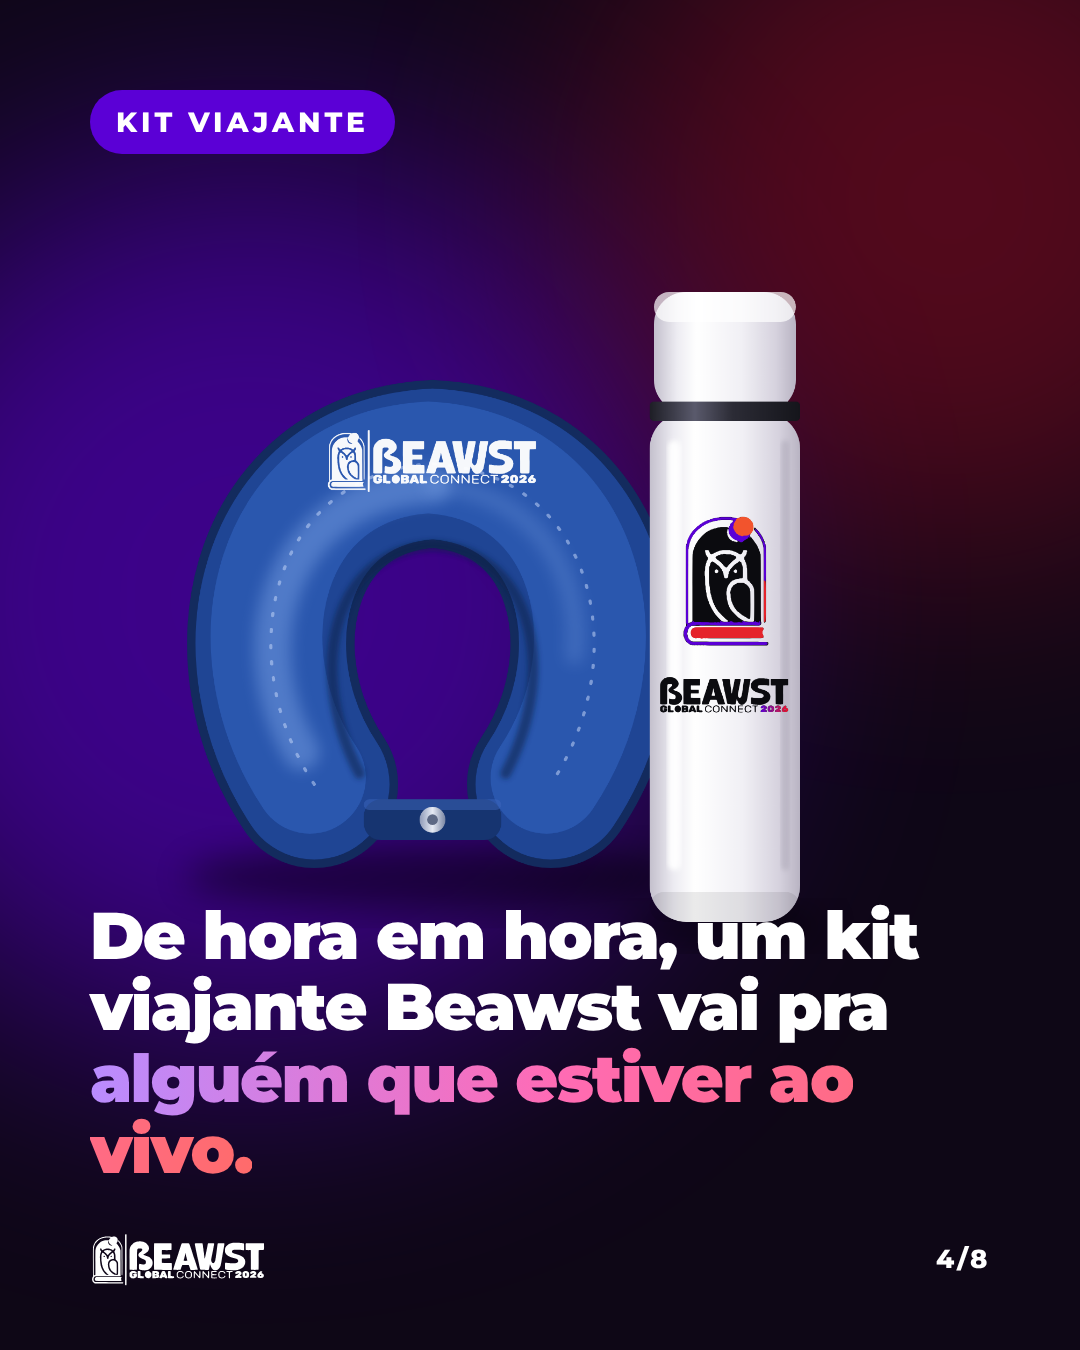
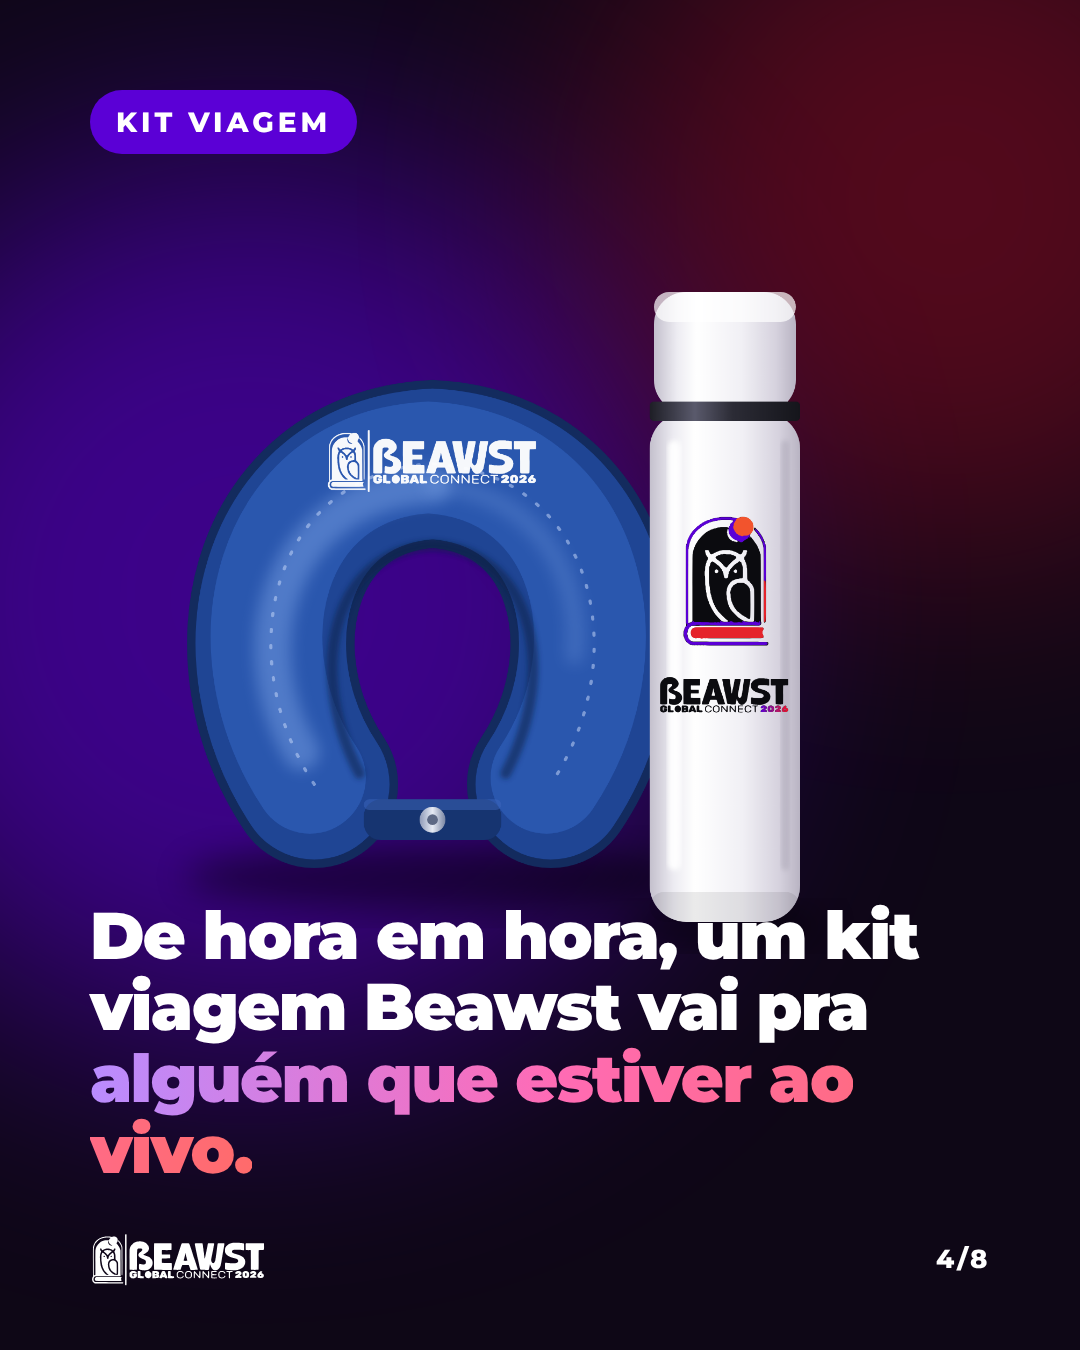
Carrossel e story dos presentes: 'Kit viagem' no lugar de 'Kit viajante'
Claude-Session: https://claude.ai/code/session_01KyHVk97BxwCKQz2piQjfor

Changed region(s): [[0.1528, 0.7156, 0.825, 0.7778], [0.2444, 0.0622, 0.3667, 0.1244]]

diff --git a/beawst-carrossel-presentes/carrossel.html b/beawst-carrossel-presentes/carrossel.html
@@ -85,13 +85,13 @@ body{font-family:M,sans-serif;color:#fff;-webkit-font-smoothing:antialiased}
   <div class="foot" style="color:var(--tinta)"><img src="assets/logo-feira-cor.svg"><span>arrasta →</span></div>
 </div>
 
-<!-- 4 | Kit viajante -->
+<!-- 4 | Kit viagem -->
 <div class="slide" id="s4" style="background:var(--escuro)">
   <div class="glow" style="width:900px;height:900px;background:var(--roxo);opacity:.6;left:-200px;top:150px"></div>
   <div class="glow" style="width:700px;height:700px;background:var(--vermelho);opacity:.3;left:600px;top:-150px"></div>
-  <div class="abs" style="left:90px;top:90px"><span class="pill">kit viajante</span></div>
+  <div class="abs" style="left:90px;top:90px"><span class="pill">kit viagem</span></div>
   <img class="abs" src="assets/kit.png" style="left:110px;top:150px;width:860px">
-  <div class="abs pad huge" style="top:900px;font-size:66px;line-height:1.08">De hora em hora, um kit viajante Beawst vai pra <span class="gradL">alguém que estiver ao vivo.</span></div>
+  <div class="abs pad huge" style="top:900px;font-size:66px;line-height:1.08">De hora em hora, um kit viagem Beawst vai pra <span class="gradL">alguém que estiver ao vivo.</span></div>
   <div class="foot"><img src="assets/logo-feira-branco.svg"><span>4/8</span></div>
 </div>
 

diff --git a/beawst-story-premios/story.html b/beawst-story-premios/story.html
@@ -44,7 +44,7 @@ body.guia .guide{display:flex}
   <div class="halo" style="left:40px;top:740px;width:420px;height:360px;opacity:.6"></div>
   <img class="abs" src="assets/kit.png" style="left:30px;top:670px;width:440px">
   <div class="abs" style="left:490px;right:80px;top:800px">
-    <div class="nome">Kit viajante</div>
+    <div class="nome">Kit viagem</div>
     <div class="desc">sorteado <b style="color:#fff">de hora em hora</b> pra quem estiver ao vivo</div>
   </div>
 
